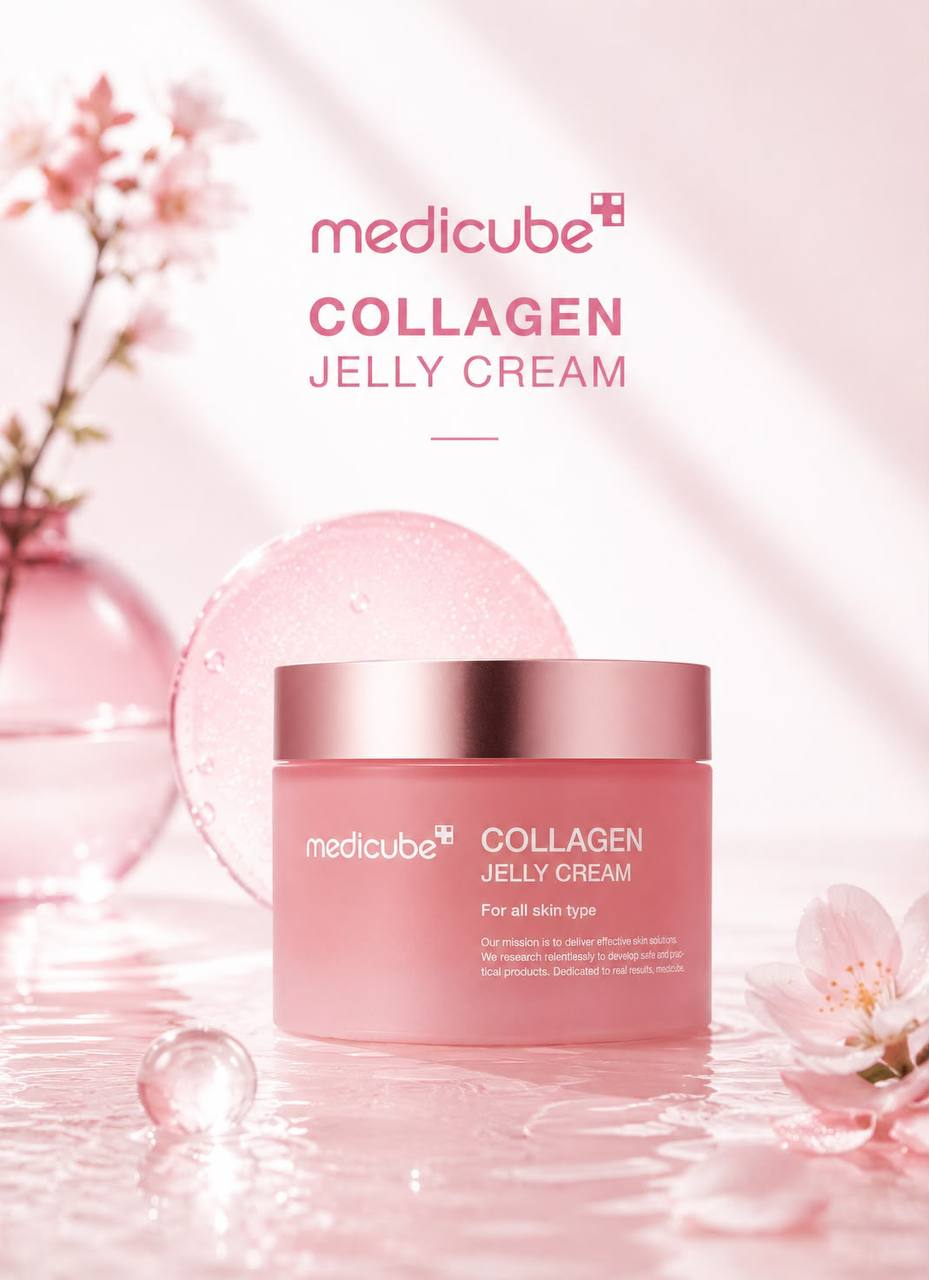
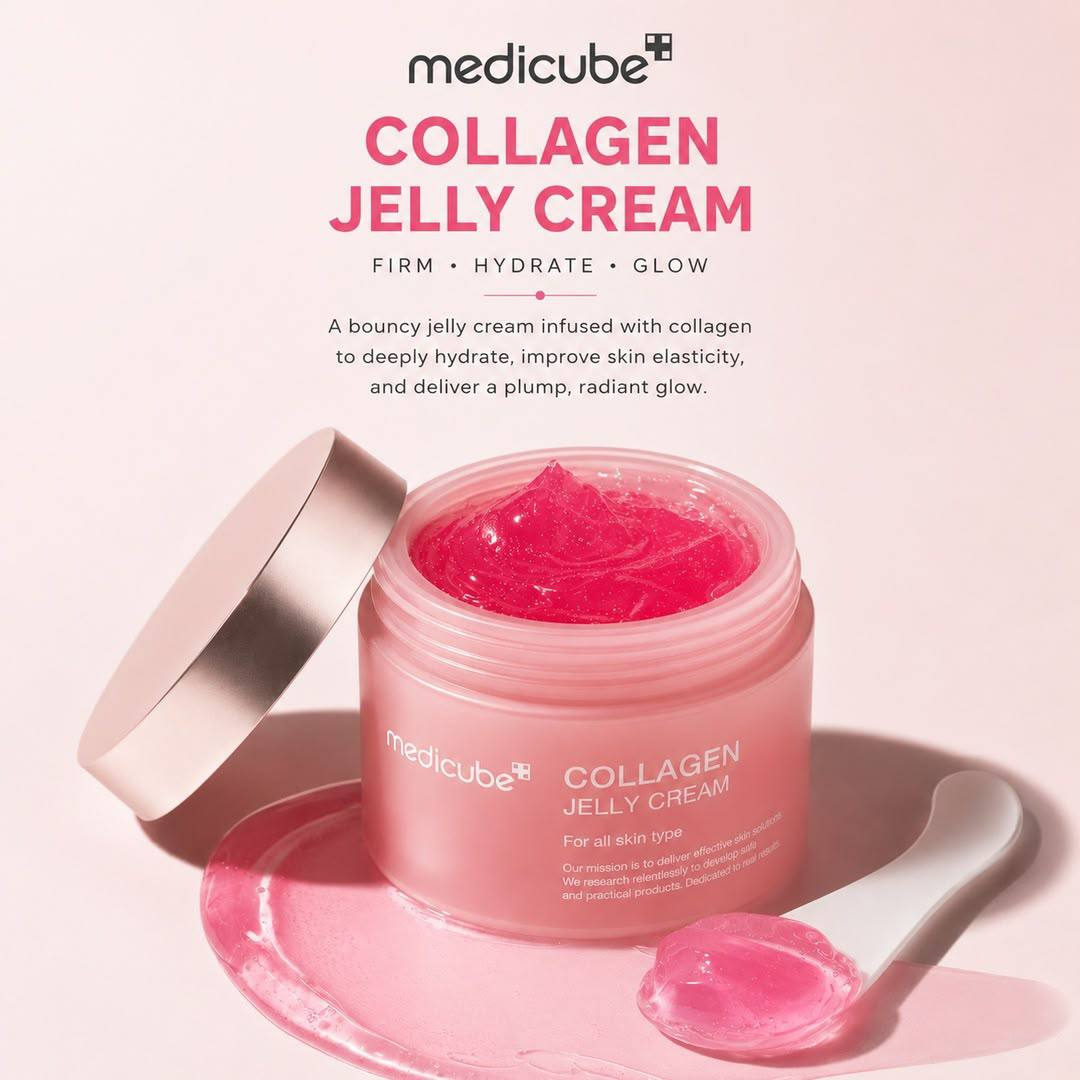
Update Medicube Collagen Jelly Cream text (UA/EN/RU) and image

diff --git a/src/data/products.js b/src/data/products.js
@@ -570,21 +570,48 @@ export const medicubeProducts = [
     brand: 'medicube',
     line: 'COLLAGEN',
     nameEn: 'COLLAGEN JELLY CREAM',
-    nameRu: 'ЖЕЛЕЙНЫЙ КРЕМ С КОЛЛАГЕНОМ',
-    subtitle: 'Легкий желейный крем с коллагеном для упругости и сияния кожи',
+    nameUa: 'КРЕМ-ЖЕЛЕ З КОЛАГЕНОМ',
+    nameRu: 'КРЕМ-ЖЕЛЕ С КОЛЛАГЕНОМ',
+    subtitleEn: 'Firmness • Deep hydration • Skin glow',
+    subtitleUa: 'Пружність • Глибоке зволоження • Сяйво шкіри',
+    subtitleRu: 'Упругость • Глубокое увлажнение • Сияние кожи',
     volume: '110 мл',
     price: 2800,
-    image: '/images/123.jpg',
+    image: '/images/medicube-collagen-jelly-cream.jpg',
     accentColor: '#b05a7a',
-    description: 'Легкий желейный крем с коллагеном интенсивно увлажняет кожу, повышает ее упругость и помогает сохранить естественное сияние. Делает кожу более гладкой, мягкой и эластичной.',
-    benefits: [
-      { icon: '💧', title: 'ГЛУБОКОЕ УВЛАЖНЕНИЕ',        desc: 'Насыщает кожу влагой, предотвращает обезвоживание и поддерживает оптимальный уровень увлажнения.' },
-      { icon: '💪', title: 'УПРУГОСТЬ И ЭЛАСТИЧНОСТЬ',   desc: 'Коллаген помогает улучшить упругость кожи, делая ее более плотной и гладкой.' },
-      { icon: '🛡', title: 'ВОССТАНОВЛЕНИЕ БАРЬЕРА',     desc: 'Укрепляет защитный барьер кожи и помогает сохранить влагу.' },
-      { icon: '✨', title: 'СИЯНИЕ И ГЛАДКОСТЬ',          desc: 'Выравнивает текстуру кожи, придает ей здоровое сияние и свежий вид.' },
+    descriptionEn: 'A lightweight jelly cream with collagen that intensively hydrates, boosts skin firmness and elasticity. Thanks to its jelly-like texture it absorbs quickly, giving comfort, freshness and a natural glow without any sticky feel.',
+    descriptionUa: 'Легкий крем-желе з колагеном, який інтенсивно зволожує, підвищує пружність та еластичність шкіри. Завдяки своїй желеподібній текстурі швидко вбирається, дарує комфорт, свіжість і природне сяйво без відчуття липкості.',
+    descriptionRu: 'Легкий крем-желе с коллагеном, который интенсивно увлажняет, повышает упругость и эластичность кожи. Благодаря желеобразной текстуре быстро впитывается, дарит комфорт, свежесть и естественное сияние без ощущения липкости.',
+    benefitsEn: [
+      { icon: '💧', title: 'INTENSIVE HYDRATION', desc: 'Intensively hydrates and retains moisture in the skin.' },
+      { icon: '💪', title: 'IMPROVES FIRMNESS', desc: 'Improves firmness and elasticity.' },
+      { icon: '🎯', title: 'SMOOTHS FINE LINES', desc: 'Helps smooth fine wrinkles.' },
+      { icon: '🛡', title: 'STRENGTHENS BARRIER', desc: 'Strengthens the skin\'s protective barrier.' },
+      { icon: '✨', title: 'SMOOTH, GLOWING SKIN', desc: 'Makes skin smooth, soft and radiant.' },
     ],
-    ingredients: ['Гидролизованный коллаген', 'Ниацинамид', 'Гиалуроновая кислота', 'Комплекс увлажняющих компонентов'],
-    skinTypes: ['Все типы кожи', 'Сухая и обезвоженная кожа', 'Кожа с первыми признаками возрастных изменений', 'Тусклая и уставшая кожа', 'Для ежедневного ухода'],
+    benefitsUa: [
+      { icon: '💧', title: 'ІНТЕНСИВНЕ ЗВОЛОЖЕННЯ', desc: 'Інтенсивно зволожує та утримує вологу в шкірі.' },
+      { icon: '💪', title: 'ПОКРАЩУЄ ПРУЖНІСТЬ', desc: 'Покращує пружність і еластичність.' },
+      { icon: '🎯', title: 'РОЗГЛАДЖУЄ ЗМОРШКИ', desc: 'Допомагає розгладити дрібні зморшки.' },
+      { icon: '🛡', title: 'ЗМІЦНЮЄ БАР\'ЄР', desc: 'Зміцнює захисний бар\'єр шкіри.' },
+      { icon: '✨', title: 'ГЛАДКА ТА СЯЮЧА ШКІРА', desc: 'Робить шкіру гладенькою, м\'якою та сяючою.' },
+    ],
+    benefitsRu: [
+      { icon: '💧', title: 'ИНТЕНСИВНОЕ УВЛАЖНЕНИЕ', desc: 'Интенсивно увлажняет и удерживает влагу в коже.' },
+      { icon: '💪', title: 'УЛУЧШАЕТ УПРУГОСТЬ', desc: 'Улучшает упругость и эластичность.' },
+      { icon: '🎯', title: 'РАЗГЛАЖИВАЕТ МОРЩИНЫ', desc: 'Помогает разгладить мелкие морщины.' },
+      { icon: '🛡', title: 'УКРЕПЛЯЕТ БАРЬЕР', desc: 'Укрепляет защитный барьер кожи.' },
+      { icon: '✨', title: 'ГЛАДКАЯ И СИЯЮЩАЯ КОЖА', desc: 'Делает кожу гладкой, мягкой и сияющей.' },
+    ],
+    ingredientsEn: ['Hydrolyzed collagen', 'Niacinamide', 'Hyaluronic acid', 'Moisturizing complex'],
+    ingredientsUa: ['Гідролізований колаген', 'Ніацинамід', 'Гіалуронова кислота', 'Зволожувальний комплекс'],
+    ingredientsRu: ['Гидролизованный коллаген', 'Ниацинамид', 'Гиалуроновая кислота', 'Увлажняющий комплекс'],
+    skinTypesEn: ['All skin types, especially dry, dehydrated, dull and skin with first signs of aging'],
+    skinTypesUa: ['Усі типи шкіри, особливо суха, зневоднена, тьмяна та шкіра з першими ознаками старіння'],
+    skinTypesRu: ['Все типы кожи, особенно сухая, обезвоженная, тусклая и кожа с первыми признаками старения'],
+    usageEn: 'After cleansing, toner and serum, apply a small amount of cream to the face and neck. Spread evenly with light massaging movements until fully absorbed. Use morning and evening as the final step of care.',
+    usageUa: 'Після очищення, тонера та сироватки нанесіть невелику кількість крему на обличчя та шию. Рівномірно розподіліть легкими масажними рухами до повного вбирання. Використовуйте вранці та ввечері як завершальний етап догляду.',
+    usageRu: 'После очищения, тонера и сыворотки нанесите небольшое количество крема на лицо и шею. Равномерно распределите легкими массажными движениями до полного впитывания. Используйте утром и вечером как завершающий этап ухода.',
   },
   {
     id: 'medicube-age-r-booster-pro',
